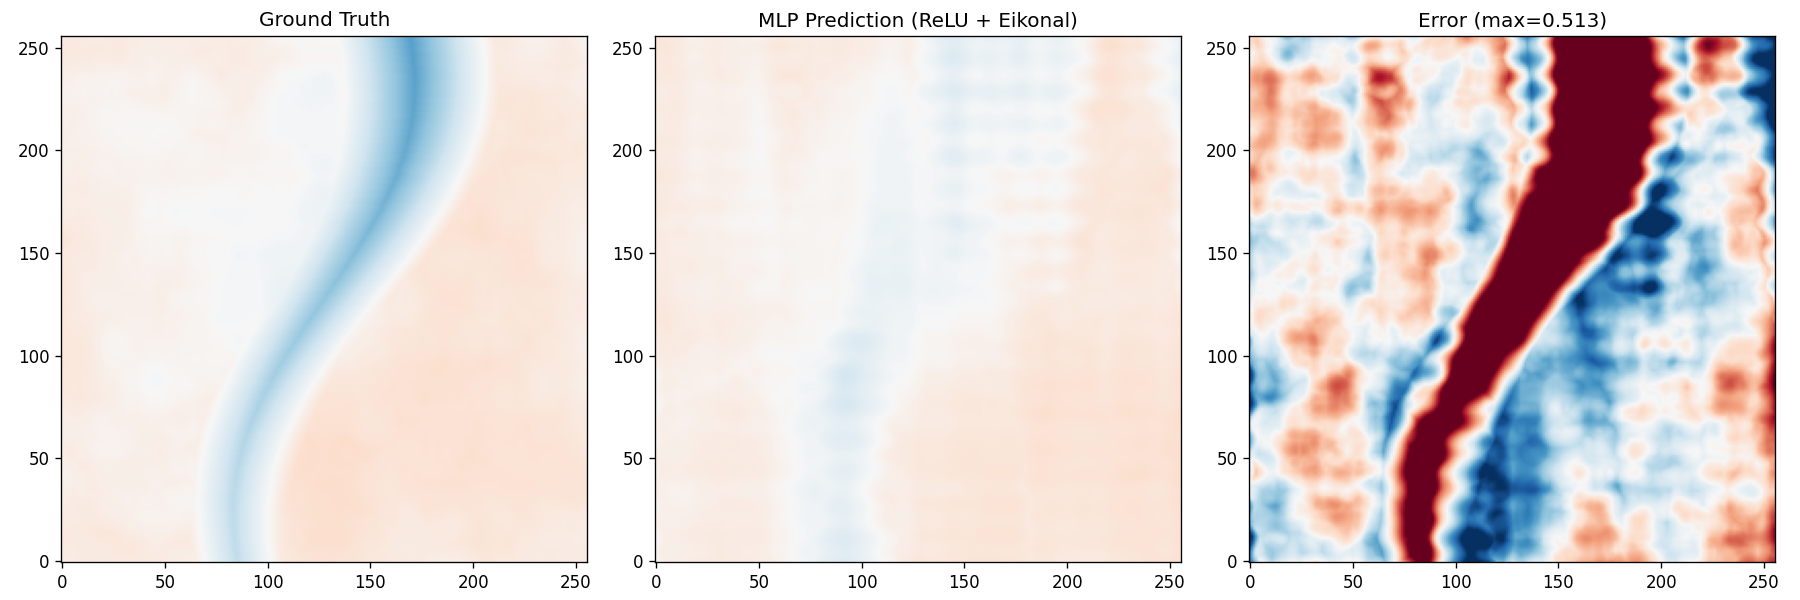
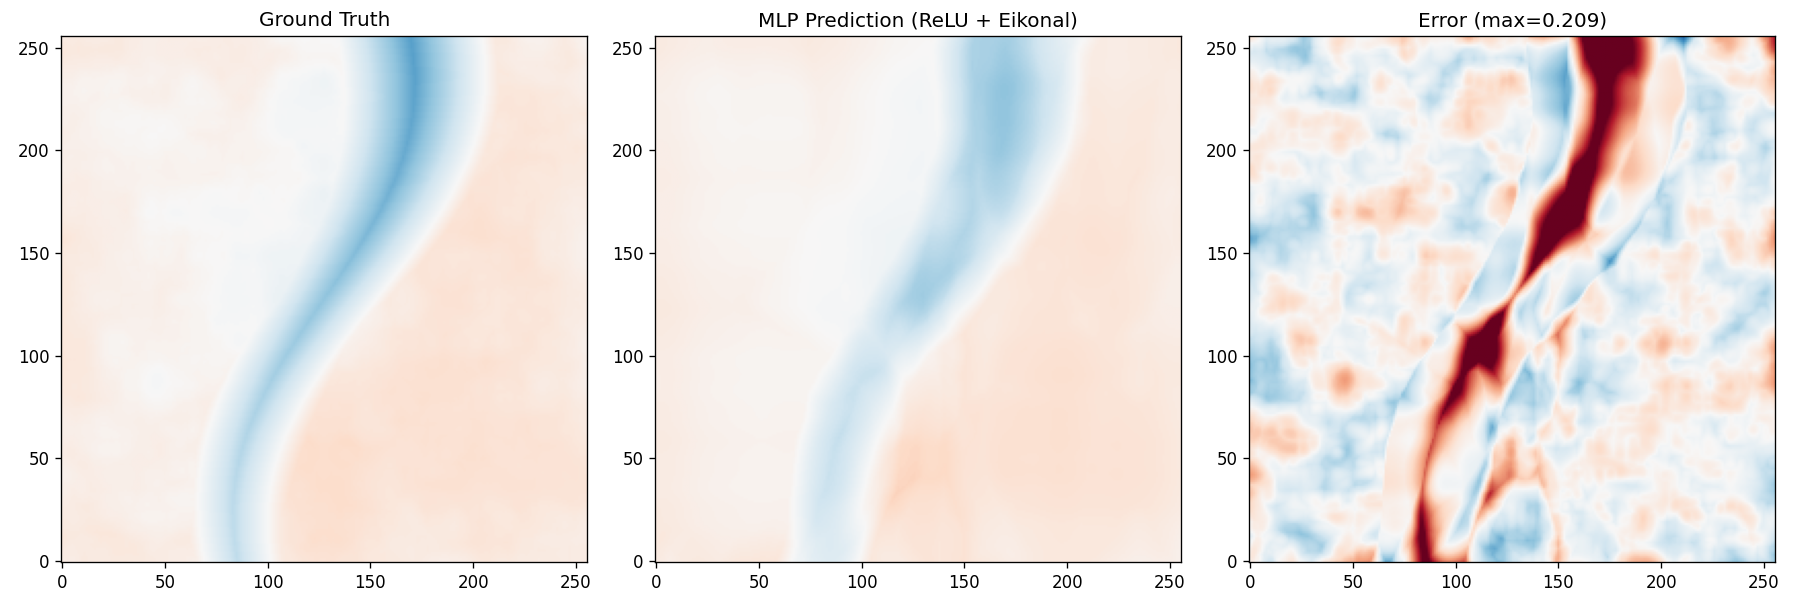
Fix & Document

diff --git a/README.md b/README.md
@@ -1,0 +1,5 @@
+# HPG — Neural SDF in a Shader
+
+Fits a signed distance field (SDF) to a procedural canyon terrain using a tiny ReLU MLP with **737 parameters**, and exports the weights to GLSL, allowing for real-time rendering directly in the fragment shader via ray-marching.
+
+> This project is a implement of *neural implicit representation in shaders* in the **HPG (High-Performance Graphics)** on SDF for Global Illumination.